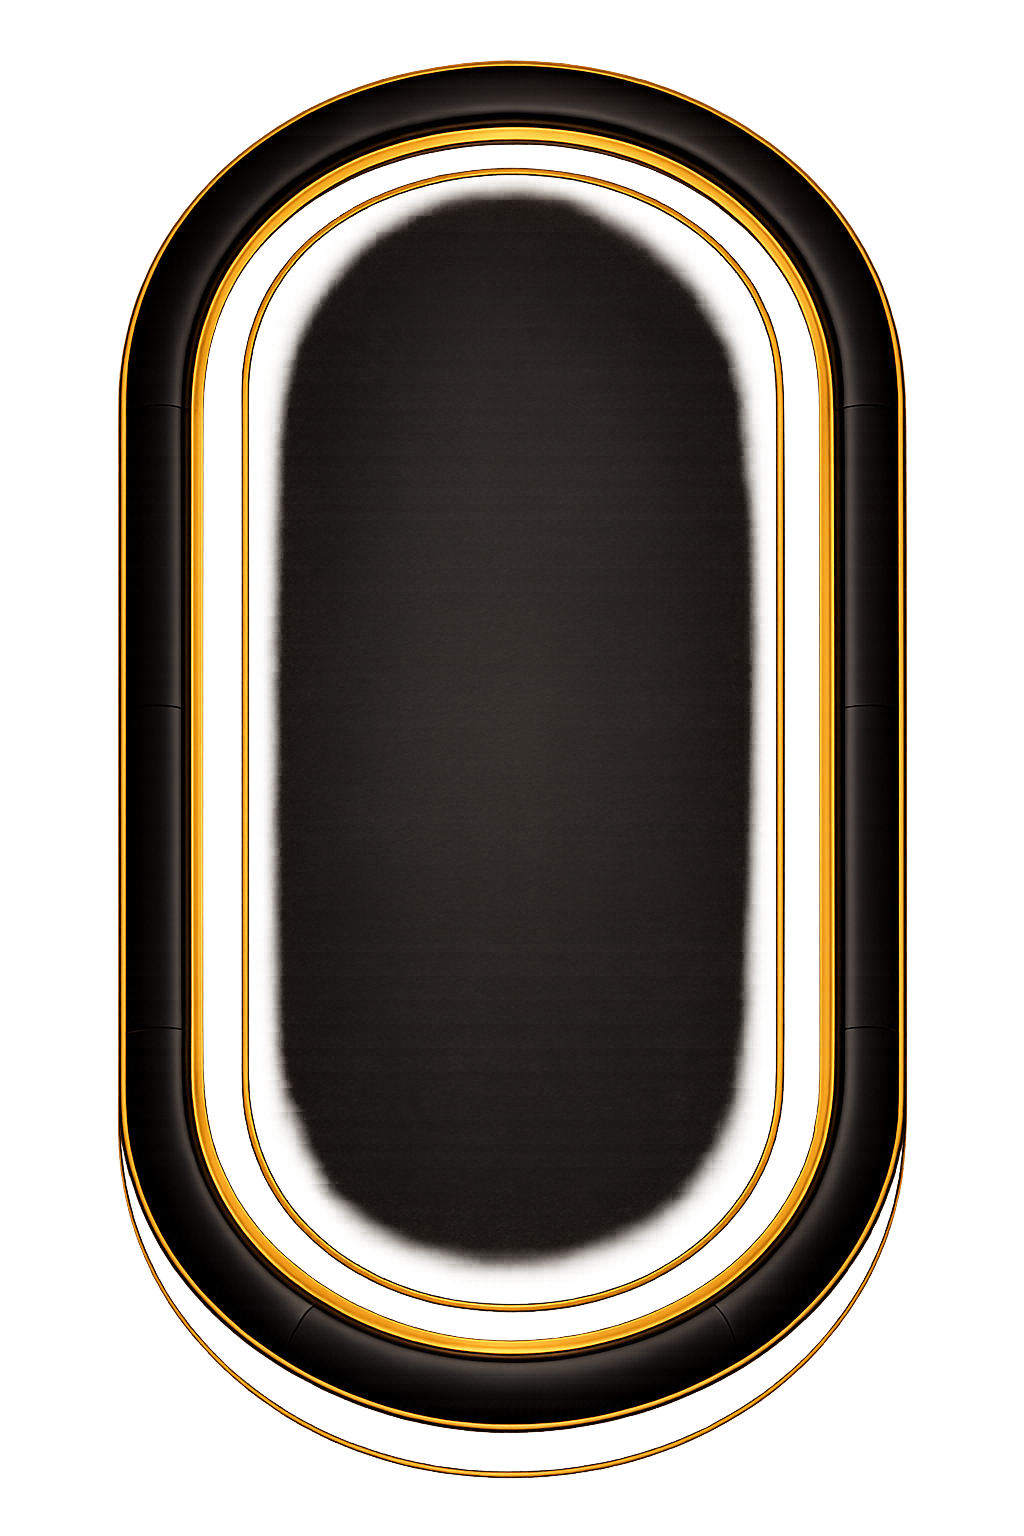
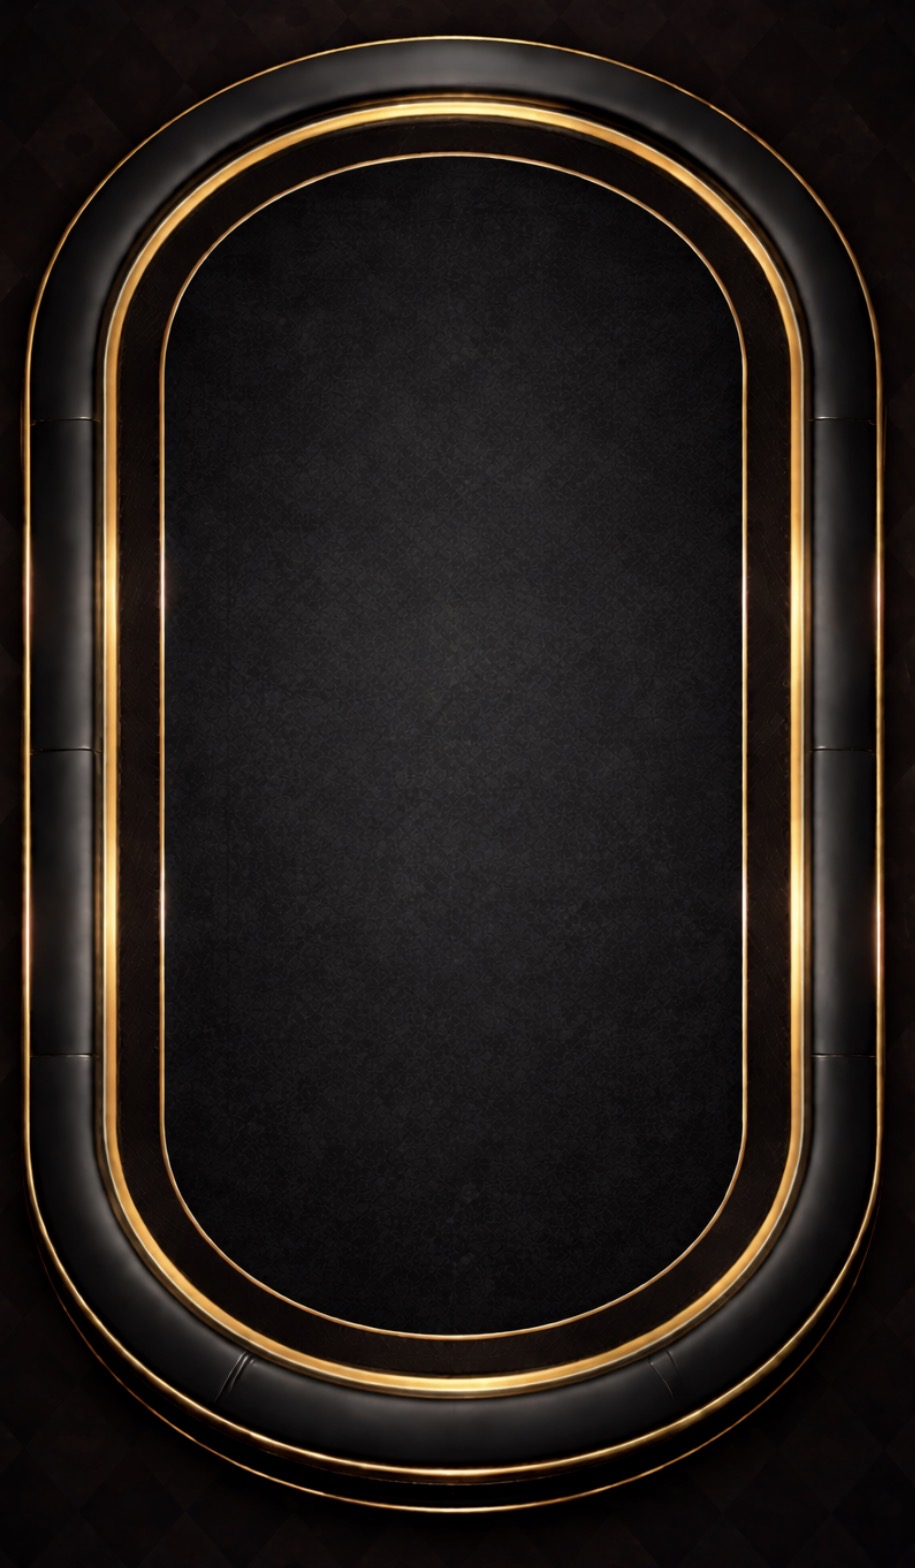
Fix: Use INITIAL_SESSION event pattern for reliable auth detection

diff --git a/pages/hub/social-media.js b/pages/hub/social-media.js
@@ -1370,107 +1370,99 @@ export default function SocialMediaPage() {
     }, []);
 
     // ═══════════════════════════════════════════════════════════════════════
-    // 🔐 AUTH STATE LISTENER - Subscribe to auth changes for reliable session
+    // 🔐 AUTH STATE LISTENER - Wait for INITIAL_SESSION event (Supabase v2 pattern)
     // ═══════════════════════════════════════════════════════════════════════
     useEffect(() => {
         let isMounted = true;
 
-        const initAuth = async () => {
+        const handleAuthUser = async (authUser) => {
+            if (!isMounted || !authUser) {
+                console.log('[Social] ❌ No authenticated user');
+                if (isMounted) setLoading(false);
+                return;
+            }
+
+            console.log('[Social] ✅ User authenticated:', authUser.email);
+
             try {
-                // Diagnostic logging
-                console.log('[Social] Checking auth state...');
-                console.log('[Social] localStorage keys:', Object.keys(localStorage).filter(k => k.startsWith('sb-')));
+                const { data: p, error: profileError } = await supabase
+                    .from('profiles')
+                    .select('username, full_name, display_name_preference, skill_tier, avatar_url, hendon_url, hendon_total_cashes, hendon_total_earnings, hendon_best_finish, role')
+                    .eq('id', authUser.id)
+                    .maybeSingle();
 
-                // Try getSession first (more reliable for browser sessions)
-                let authUser = null;
-                const { data: sessionData, error: sessionError } = await supabase.auth.getSession();
-
-                if (sessionError) {
-                    console.error('[Social] getSession error:', sessionError);
-                }
-
-                if (sessionData?.session?.user) {
-                    authUser = sessionData.session.user;
-                    console.log('[Social] ✅ Auth via getSession:', authUser.email);
-                } else {
-                    console.log('[Social] getSession returned null, trying getUser...');
-                    // Fallback to getUser
-                    const { data: { user: au }, error: getUserError } = await supabase.auth.getUser();
-                    if (getUserError) {
-                        console.error('[Social] getUser error:', getUserError);
-                    }
-                    authUser = au;
-                    console.log('[Social] Auth via getUser:', authUser?.email || 'null');
+                if (profileError) {
+                    console.error('[Social] Profile fetch error:', profileError);
                 }
 
                 if (!isMounted) return;
 
-                if (authUser) {
-                    console.log('[Social] ✅ User authenticated, loading profile...');
-                    const { data: p, error: profileError } = await supabase.from('profiles').select('username, full_name, display_name_preference, skill_tier, avatar_url, hendon_url, hendon_total_cashes, hendon_total_earnings, hendon_best_finish, role').eq('id', authUser.id).maybeSingle();
-
-                    if (profileError) {
-                        console.error('[Social] Profile fetch error:', profileError);
-                    }
-
-                    // 👑 Check for God Mode
-                    if (p?.role === 'god') {
-                        setIsGodMode(true);
-                    }
-                    // Respect display_name_preference: 'full_name' shows real name, 'username' shows alias
-                    const displayNamePref = p?.display_name_preference || 'full_name';
-                    const displayName = displayNamePref === 'full_name' && p?.full_name
-                        ? p.full_name
-                        : (p?.username || authUser.email?.split('@')[0] || 'Player');
-                    setUser({
-                        id: authUser.id,
-                        name: displayName,
-                        avatar: p?.avatar_url || null,
-                        tier: p?.skill_tier,
-                        role: p?.role || 'user',
-                        hendon: p?.hendon_url ? {
-                            url: p.hendon_url,
-                            cashes: p.hendon_total_cashes,
-                            earnings: p.hendon_total_earnings,
-                            bestFinish: p.hendon_best_finish
-                        } : null
-                    });
-                    console.log('[Social] ✅ User state set:', displayName);
-                    await loadContacts(authUser.id);
-                    // Load notifications
-                    const { data: notifs } = await supabase.from('notifications')
-                        .select('*')
-                        .eq('user_id', authUser.id)
-                        .order('created_at', { ascending: false })
-                        .limit(20);
-                    if (notifs) setNotifications(notifs);
-                } else {
-                    console.log('[Social] ❌ No authenticated user found');
+                // 👑 Check for God Mode
+                if (p?.role === 'god') {
+                    setIsGodMode(true);
                 }
+
+                // Respect display_name_preference
+                const displayNamePref = p?.display_name_preference || 'full_name';
+                const displayName = displayNamePref === 'full_name' && p?.full_name
+                    ? p.full_name
+                    : (p?.username || authUser.email?.split('@')[0] || 'Player');
+
+                setUser({
+                    id: authUser.id,
+                    name: displayName,
+                    avatar: p?.avatar_url || null,
+                    tier: p?.skill_tier,
+                    role: p?.role || 'user',
+                    hendon: p?.hendon_url ? {
+                        url: p.hendon_url,
+                        cashes: p.hendon_total_cashes,
+                        earnings: p.hendon_total_earnings,
+                        bestFinish: p.hendon_best_finish
+                    } : null
+                });
+                console.log('[Social] ✅ User state set:', displayName);
+
+                await loadContacts(authUser.id);
+
+                // Load notifications
+                const { data: notifs } = await supabase.from('notifications')
+                    .select('*')
+                    .eq('user_id', authUser.id)
+                    .order('created_at', { ascending: false })
+                    .limit(20);
+                if (notifs && isMounted) setNotifications(notifs);
+            } catch (e) {
+                console.error('[Social] Profile load error:', e);
+            }
+
+            if (isMounted) setLoading(false);
+        };
+
+        // Set up auth state change listener FIRST - this is the Supabase v2 pattern
+        // INITIAL_SESSION fires when auth is ready with the current session
+        const { data: { subscription } } = supabase.auth.onAuthStateChange(async (event, session) => {
+            console.log('[Social] 🔄 Auth event:', event, session?.user?.email || 'no user');
+
+            if (event === 'INITIAL_SESSION') {
+                // This is the first event, contains the current session state
+                await handleAuthUser(session?.user);
                 await loadFeed();
                 // Load live streams
                 try {
                     const streams = await LiveStreamService.getLiveStreams();
-                    setLiveStreams(streams || []);
+                    if (isMounted) setLiveStreams(streams || []);
                 } catch (e) { console.log('No live streams:', e); }
-            } catch (e) {
-                console.error('[Social] Auth error:', e);
-            }
-            if (isMounted) setLoading(false);
-        };
-
-        // Set up auth state change listener for real-time updates
-        const { data: { subscription } } = supabase.auth.onAuthStateChange((event, session) => {
-            console.log('[Social] 🔄 Auth state changed:', event, session?.user?.email || 'no user');
-            if (event === 'SIGNED_IN' && session?.user) {
-                // Re-initialize if user signs in while on this page
-                initAuth();
+            } else if (event === 'SIGNED_IN' && session?.user) {
+                // User signed in while on this page
+                await handleAuthUser(session.user);
             } else if (event === 'SIGNED_OUT') {
-                setUser(null);
+                if (isMounted) {
+                    setUser(null);
+                    setLoading(false);
+                }
             }
         });
-
-        initAuth();
 
         return () => {
             isMounted = false;

diff --git a/src/components/game/PokerGame.tsx b/src/components/game/PokerGame.tsx
@@ -94,14 +94,14 @@ class GameTableScene extends Phaser.Scene {
     }
 
     drawTable(cx: number, cy: number) {
-        // Use the actual downloaded table image
-        const table = this.add.image(cx, cy, 'table');
-        // Scale uniformly to prevent pixelation - use single scale factor
-        const targetWidth = CANVAS_WIDTH - 20;
-        const targetHeight = 530;
-        // Use the SMALLER scale to maintain aspect ratio (no stretching)
-        const scale = Math.min(targetWidth / table.width, targetHeight / table.height);
-        table.setScale(scale);
+        // Use the Black Table.jpeg image
+        const table = this.add.image(cx, cy + 15, 'table');  // Moved DOWN to hide dark top
+        // Scale to fit within canvas showing full gold edges
+        const targetWidth = CANVAS_WIDTH - 60;  // Smaller to show full edges
+        const targetHeight = 520;
+        const scaleX = targetWidth / table.width;
+        const scaleY = targetHeight / table.height;
+        table.setScale(scaleX, scaleY);
     }
 
     drawDoubleRailTable(cx: number, cy: number) {
